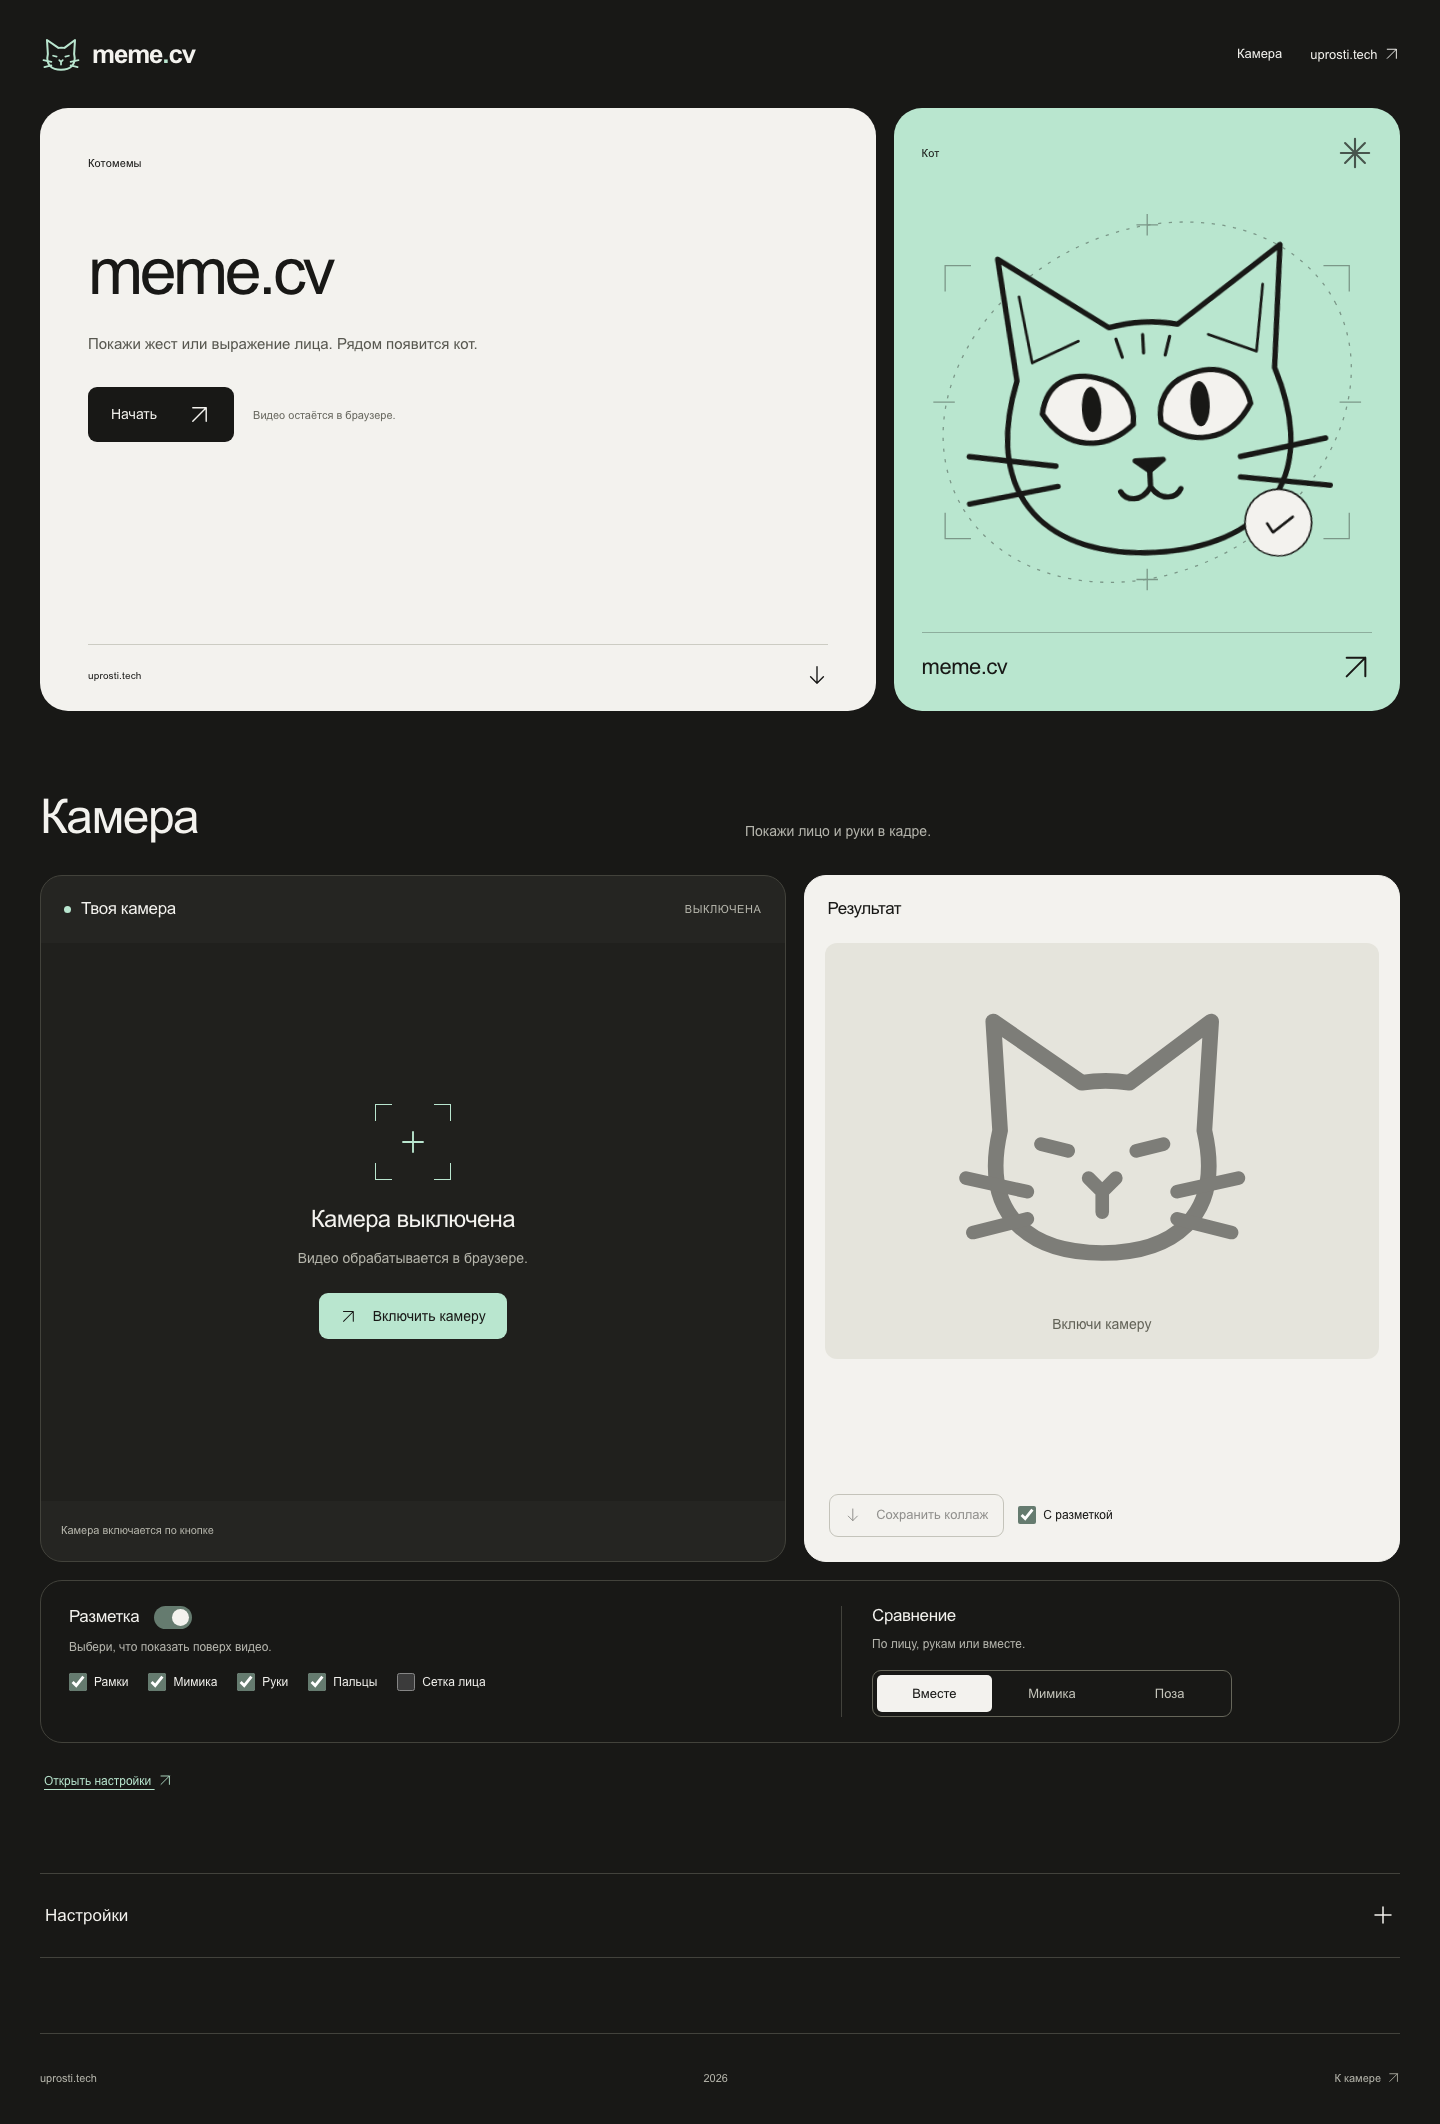
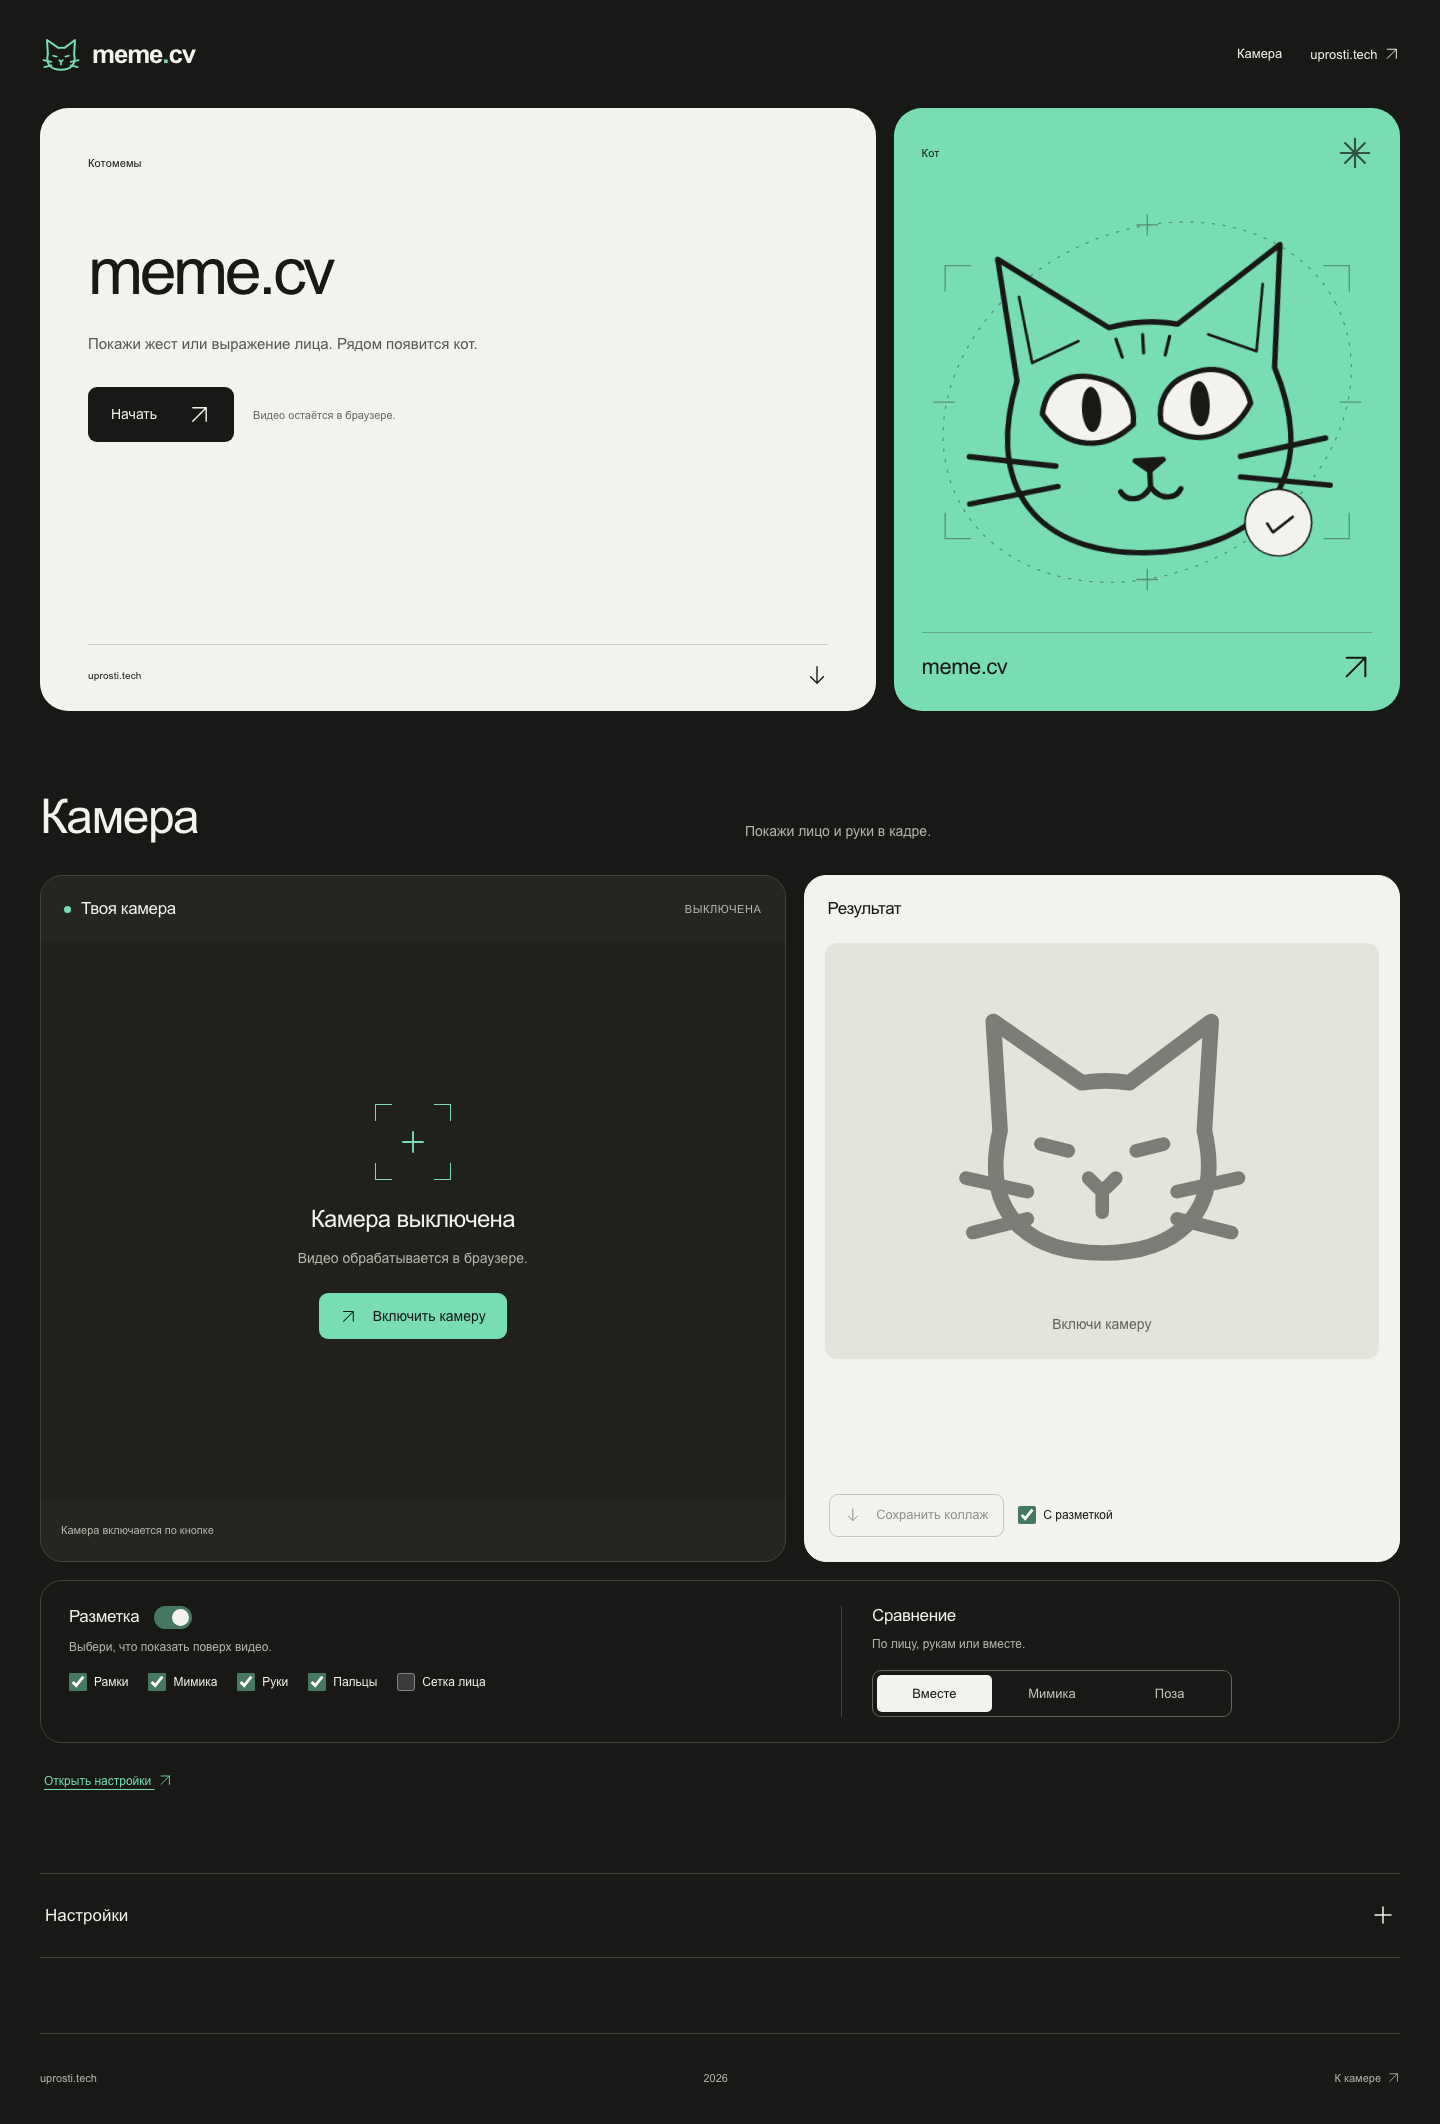
style: use saturated mint accent #78DDB3

Changed region(s): [[0.5938, 0.0311, 1.0, 0.3418], [0.2188, 0.5904, 0.375, 0.6525], [0.0938, 0.7458, 0.125, 0.7768]]

diff --git a/e2e/icons.spec.ts b/e2e/icons.spec.ts
@@ -30,11 +30,11 @@ test('mint styling ignores legacy palette settings and preserves calibration', a
     localStorage.setItem('meme-cv-calibration-v1', JSON.stringify({ poses: {}, neutral: { eyesOpen: .7 } }))
   })
   await page.goto('/')
-  await expect(page.locator('.hero-cat-card')).toHaveCSS('background-color', 'rgb(185, 230, 207)')
-  await expect(page.locator('.brand-mark')).toHaveCSS('color', 'rgb(185, 230, 207)')
+  await expect(page.locator('.hero-cat-card')).toHaveCSS('background-color', 'rgb(120, 221, 179)')
+  await expect(page.locator('.brand-mark')).toHaveCSS('color', 'rgb(120, 221, 179)')
   await expect(page.getByRole('link', { name: 'Оформление', exact: true })).toHaveCount(0)
   await page.reload()
-  await expect(page.locator('.hero-cat-card')).toHaveCSS('background-color', 'rgb(185, 230, 207)')
+  await expect(page.locator('.hero-cat-card')).toHaveCSS('background-color', 'rgb(120, 221, 179)')
   expect(await page.evaluate(() => JSON.parse(localStorage.getItem('meme-cv-calibration-v1')!).neutral.eyesOpen)).toBe(.7)
 })
 
@@ -44,6 +44,6 @@ test('retired theme preview URLs lead to the homepage', async ({ page }) => {
     await expect(page).toHaveURL(/\/$/)
     await expect(page.getByRole('heading', { level: 1 })).toHaveText('meme.cv')
     await expect(page.getByRole('radio')).toHaveCount(0)
-    await expect(page.locator('.hero-cat-card')).toHaveCSS('background-color', 'rgb(185, 230, 207)')
+    await expect(page.locator('.hero-cat-card')).toHaveCSS('background-color', 'rgb(120, 221, 179)')
   }
 })

diff --git a/src/index.css b/src/index.css
@@ -10,7 +10,7 @@
   color-scheme: dark;
   --paper: #f3f2ee;
   --ink: #181816;
-  --accent: #b9e6cf;
+  --accent: #78ddb3;
   --control-accent: color-mix(in srgb, var(--accent) 48%, #181816);
   --muted: #b5b5ad;
   --line: #42423c;

diff --git a/README.md b/README.md
@@ -1,7 +1,7 @@
 # meme.cv
 
 [![CI](https://github.com/NotAKes/meme-cv/actions/workflows/ci.yml/badge.svg)](https://github.com/NotAKes/meme-cv/actions/workflows/ci.yml)
-[![Demo](https://img.shields.io/badge/demo-meme--cv.uprosti.tech-b9e6cf)](https://meme-cv.uprosti.tech)
+[![Demo](https://img.shields.io/badge/demo-meme--cv.uprosti.tech-78ddb3)](https://meme-cv.uprosti.tech)
 
 Computer vision in the browser: match facial expressions and hand gestures to cat memes in real time. Built with TypeScript, MediaPipe and Canvas. Inference runs on the device; camera frames are not uploaded.
 
